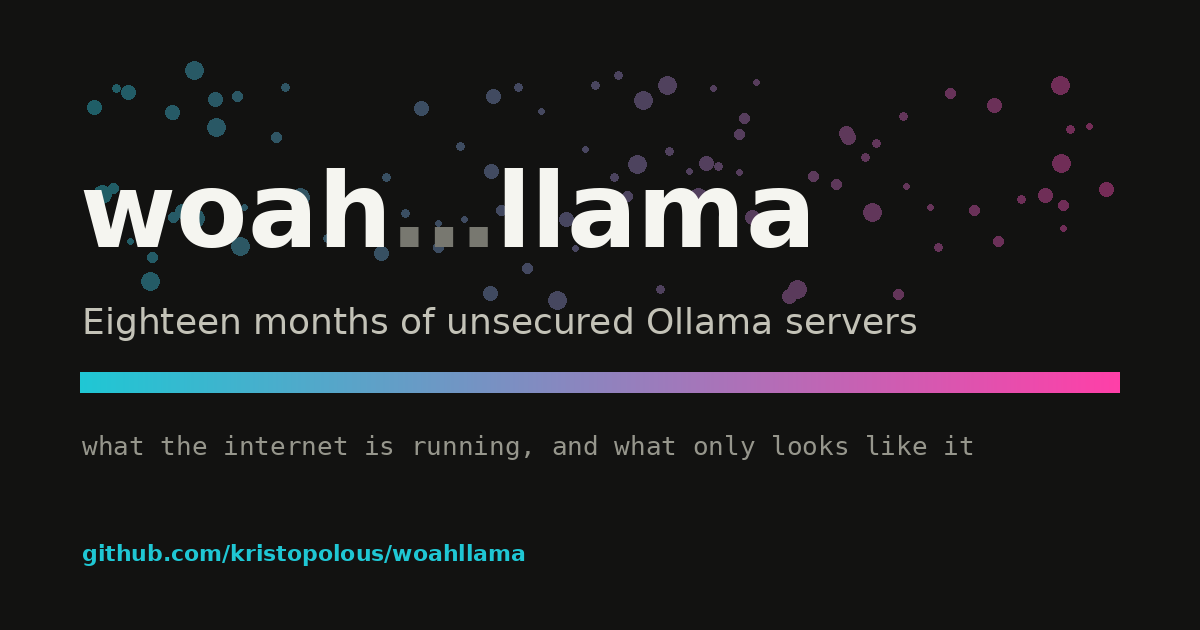
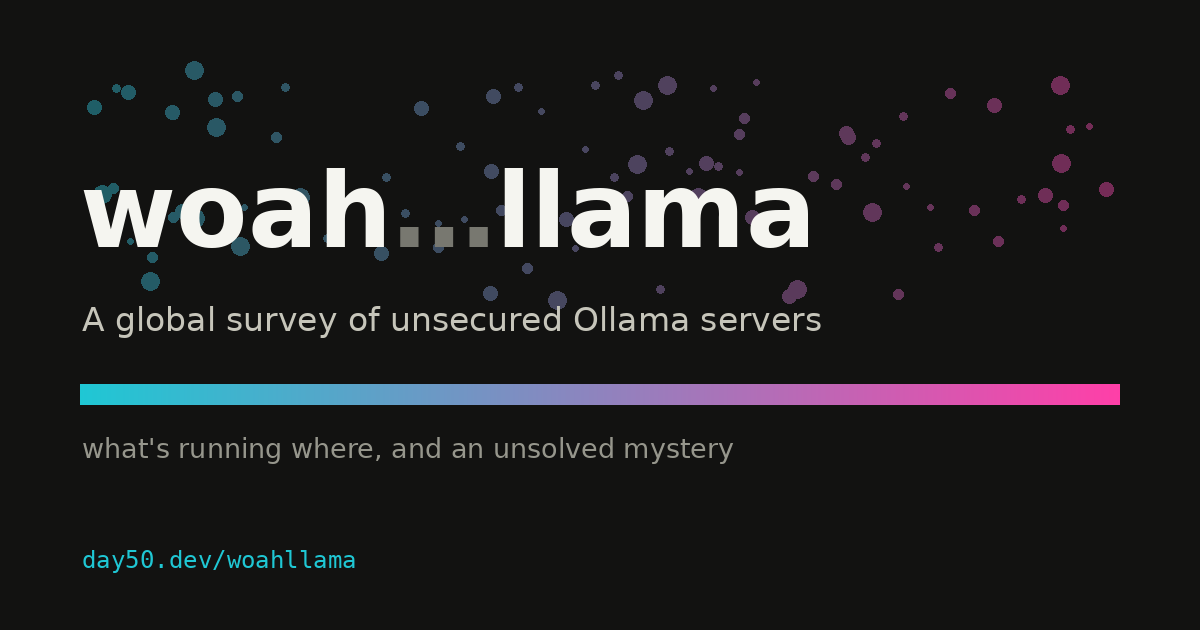
OG image tagline + point cards at day50.dev; remove Pages workflow
- Refresh og.png with the new tagline; keep the original design.
- og:url / og:image / twitter:image now point at https://day50.dev/woahllama/
  (the actual deploy target).
- Drop the GitHub Pages workflow; not the deploy target.

Claude-Session: https://claude.ai/code/session_01MdU22SHUW8KpshjLxfbU5C

diff --git a/site/index.html b/site/index.html
@@ -3,17 +3,16 @@
 <meta name="viewport" content="width=device-width,initial-scale=1">
 <title>woah…llama</title>
 
-<!-- Open Graph / social cards. Set BASE below to the deployed URL so the image
-     resolves; unfurlers require an absolute og:image. -->
+<!-- Open Graph / social cards. URLs point at the deploy target; unfurlers require an absolute og:image. -->
 <meta property="og:type" content="website">
 <meta property="og:title" content="woah…llama">
 <meta property="og:description" content="Global survey over eighteen months of unsecured Ollama servers. What's running where and an unsolved mystery">
-<meta property="og:image" content="https://kristopolous.github.io/woahllama/og.png">
-<meta property="og:url" content="https://kristopolous.github.io/woahllama/">
+<meta property="og:image" content="https://day50.dev/woahllama/og.png">
+<meta property="og:url" content="https://day50.dev/woahllama/">
 <meta name="twitter:card" content="summary_large_image">
 <meta name="twitter:title" content="woah…llama">
 <meta name="twitter:description" content="Global survey over eighteen months of unsecured Ollama servers. What's running where and an unsolved mystery">
-<meta name="twitter:image" content="https://kristopolous.github.io/woahllama/og.png">
+<meta name="twitter:image" content="https://day50.dev/woahllama/og.png">
 
 <link rel="stylesheet" href="style.css">
 
